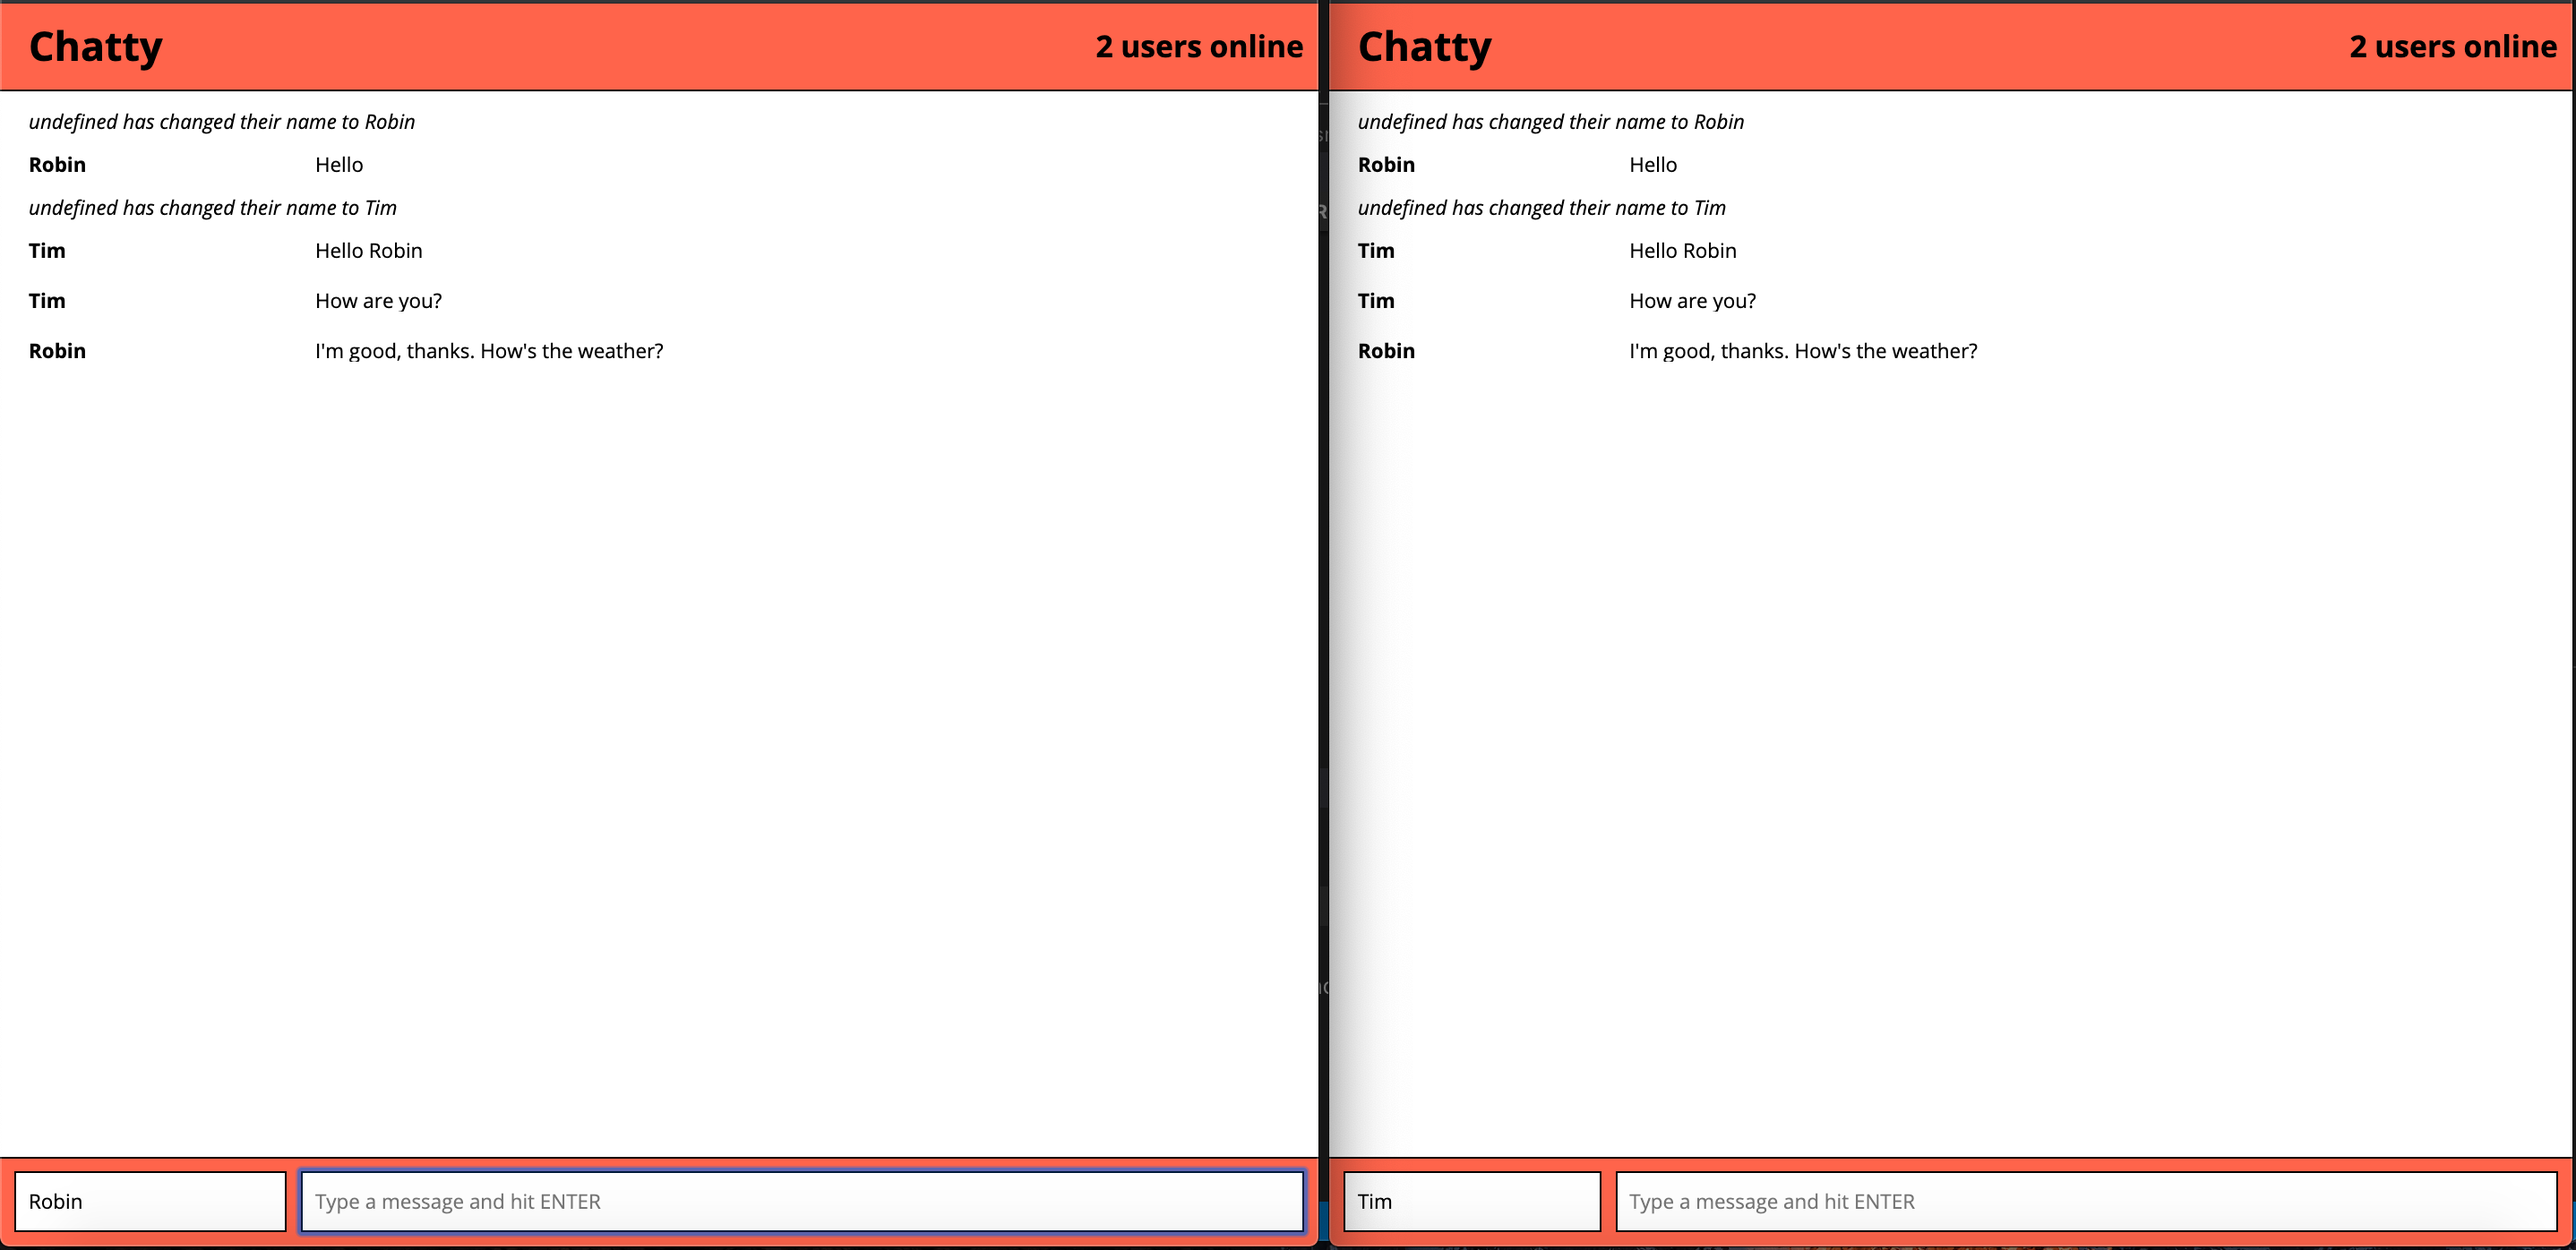
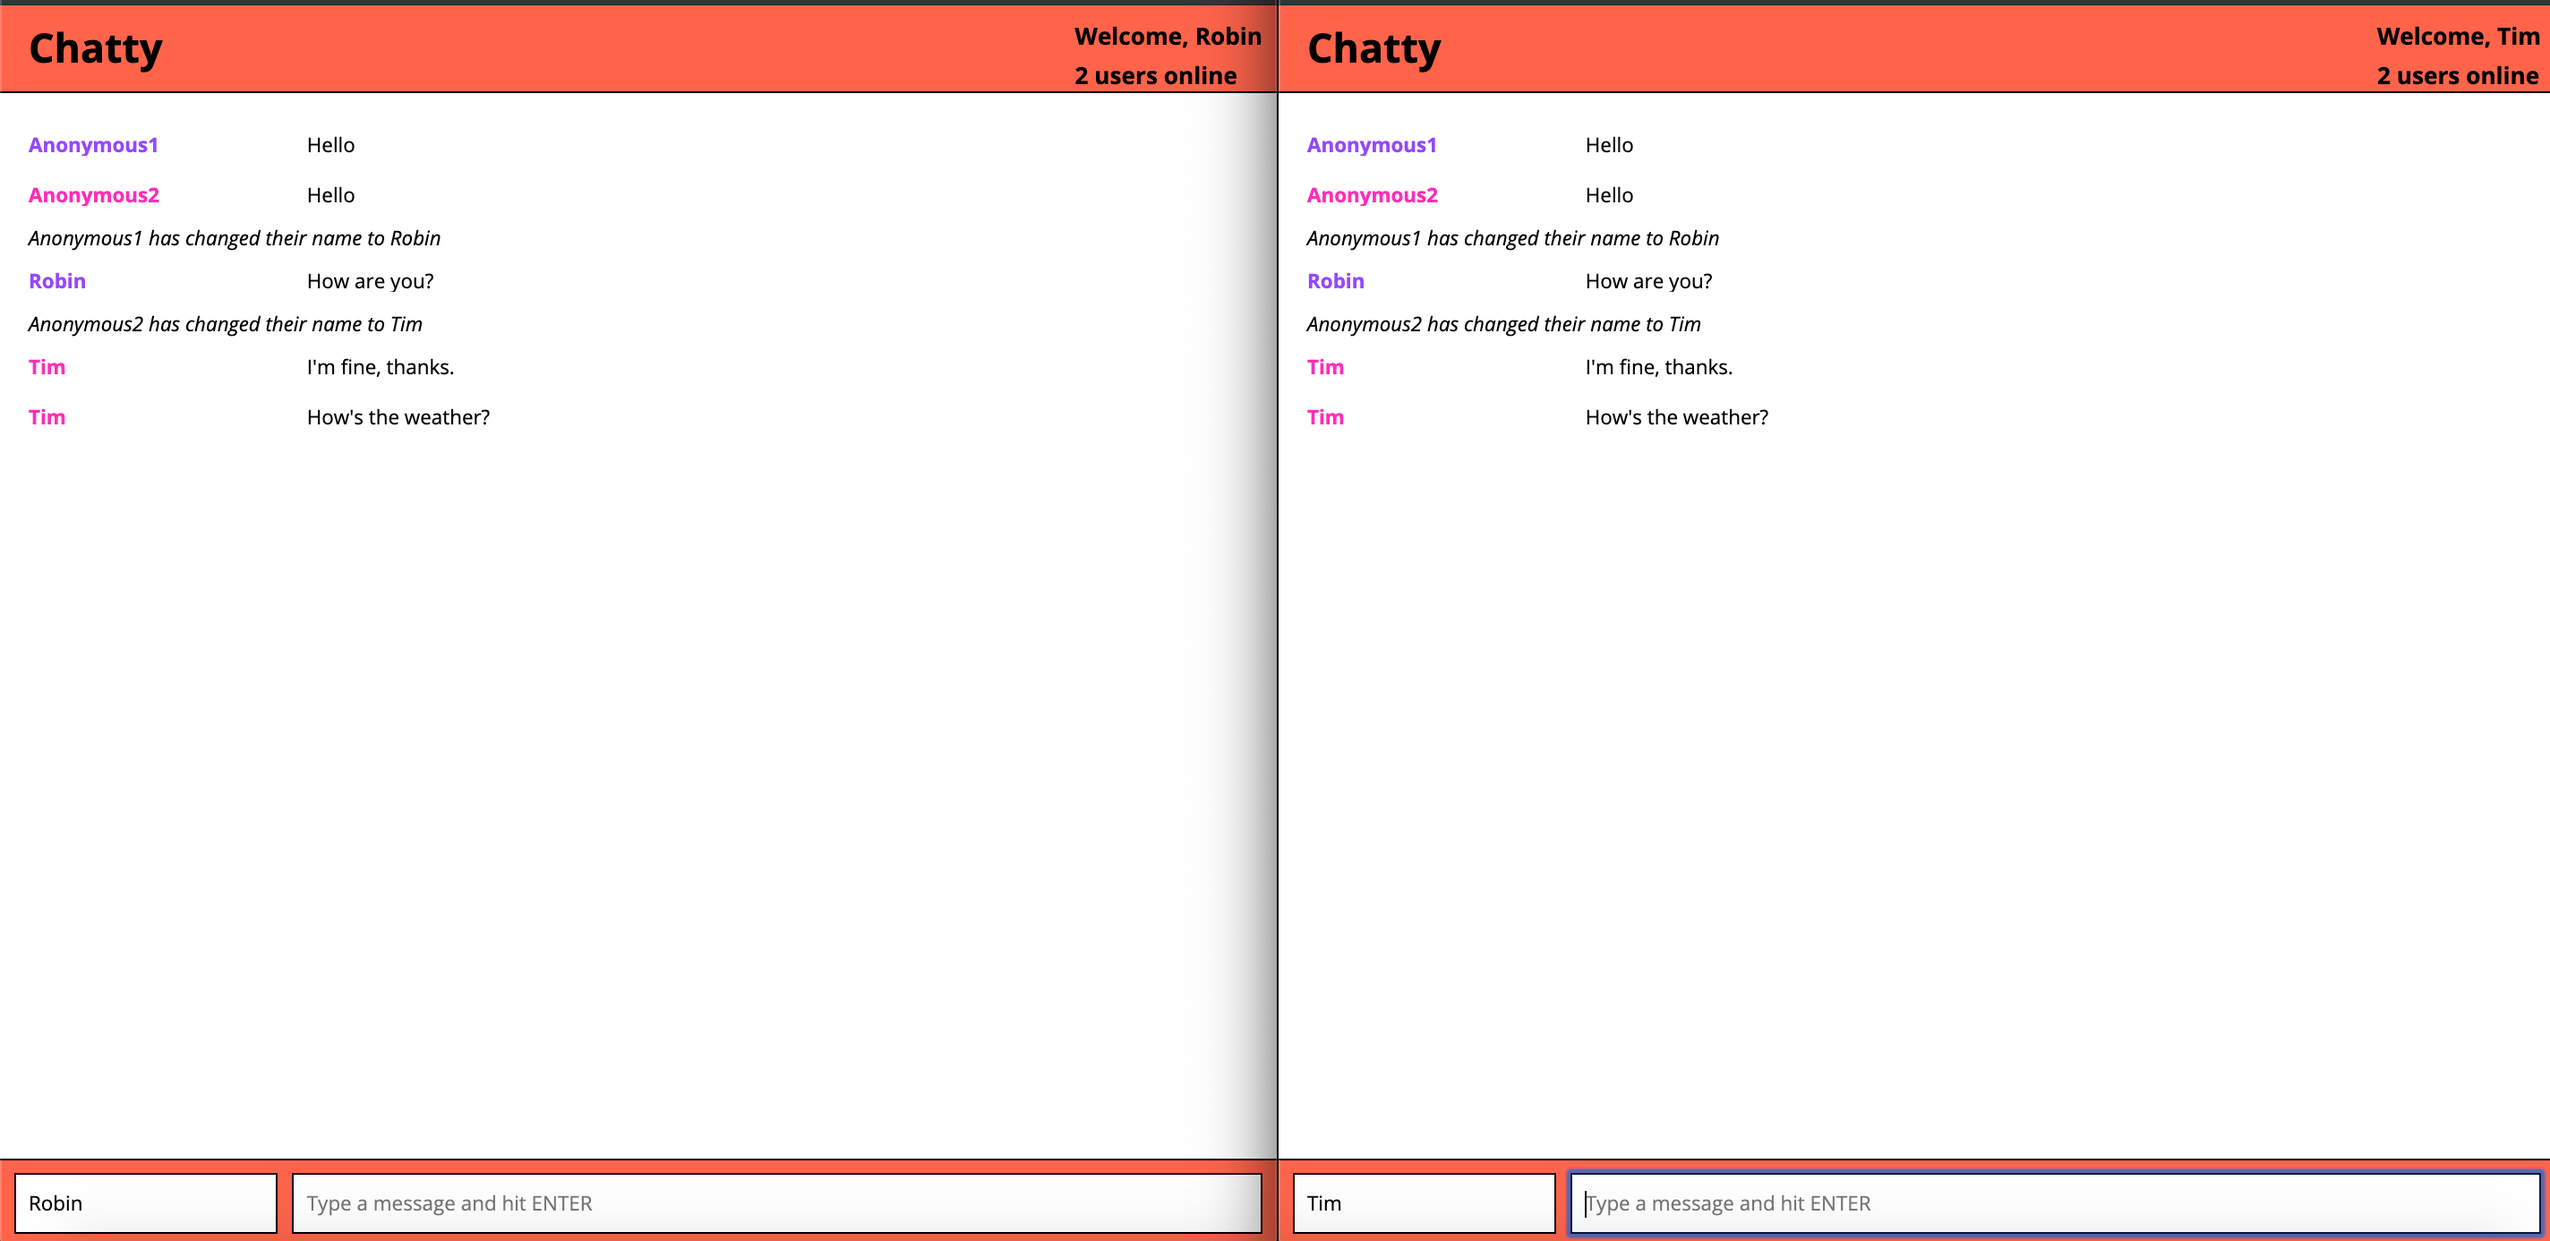
changed picture for screenshot

Changed region(s): [[0.0, 0.0, 1.0, 1.0]]

diff --git a/src/App.jsx b/src/App.jsx
@@ -48,13 +48,11 @@ class App extends Component {
         this.setState({ userCount: data.size });
         break;
       case 'clientInfo':
-        this.setState({currentUser: data});
-
+        this.setState({ currentUser: data });
       case 'incomingMessage':
       case 'incomingNotification':
         this.setState({ messages: [...this.state.messages, data] });
         break;
-
       default:
         throw new Error('Unknown event type ' + data.type);
     }

diff --git a/src/navbar.jsx b/src/navbar.jsx
@@ -9,7 +9,7 @@ const Navbar = ({ userCount, currentUser }) => {
         </a>
       </div>
       <div>
-        <h3>Welcome {currentUser.name}</h3>
+        <h3>Welcome, {currentUser.name}</h3>
         <h3>{userCount} users online</h3>
       </div>
     </nav>
